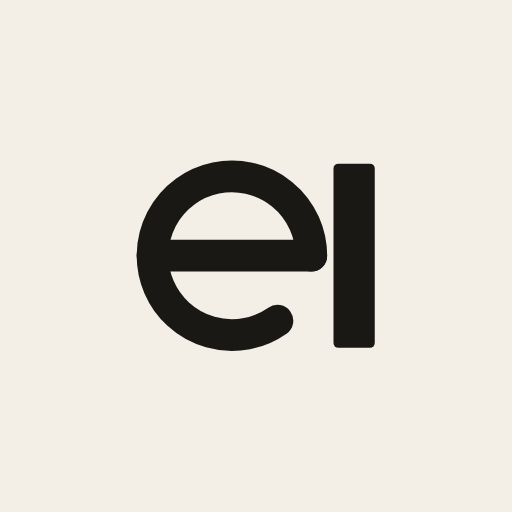
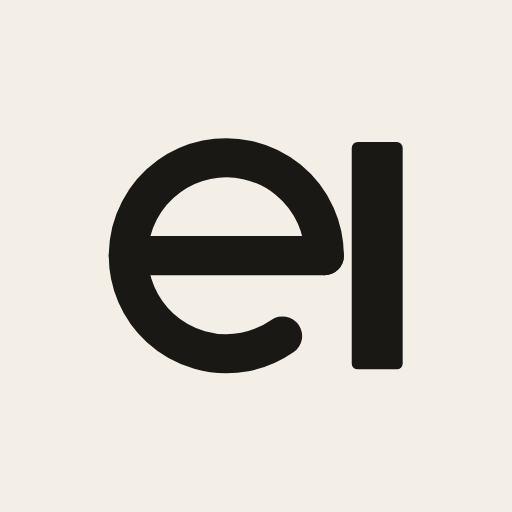
fix(brand): stop the stylesheet filling the bowl and guard the aperture

Changed region(s): [[0.1875, 0.25, 0.8125, 0.75]]

diff --git a/e2e/favicon.spec.ts b/e2e/favicon.spec.ts
@@ -118,6 +118,80 @@ test('draws a tab icon whose detail survives 16 pixels', async ({ page }) => {
   expect(covered.solid).toBeGreaterThan(20)
 })
 
+test('keeps the letter open at 16 pixels', async ({ page }) => {
+  await page.goto('/')
+
+  // The counter is the enclosed space inside the bowl, and it closing is what
+  // turns this mark into a blob with a bar beside it. It is the property the
+  // tail angle was tuned around and the one an ink-coverage reading cannot see:
+  // a filled-in letter has more ink, not less, so coverage rises as the mark
+  // fails. A frame change alone once closed it with every other check passing.
+  const openPixels = await page.evaluate(async () => {
+    const image = await new Promise<HTMLImageElement>((resolve, reject) => {
+      const candidate = new Image()
+      candidate.onload = () => resolve(candidate)
+      candidate.onerror = () => reject(new Error('failed to load /favicon.svg'))
+      candidate.src = '/favicon.svg'
+    })
+    const canvas = document.createElement('canvas')
+    canvas.width = 16
+    canvas.height = 16
+    const context = canvas.getContext('2d', { willReadFrequently: true })
+    if (!context) throw new Error('no 2d context')
+    context.drawImage(image, 0, 0, 16, 16)
+    const { data } = context.getImageData(0, 0, 16, 16)
+
+    const alphaAt = (x: number, y: number) => data[(y * 16 + x) * 4 + 3] ?? 0
+
+    // Every region of empty pixels, and whether it touches the frame's edge.
+    // A region that does not is a hole in the drawing. Named coordinates were
+    // the first attempt and the seed landed on the crossbar, which bisects the
+    // bowl, so the reading was of ink rather than of a counter.
+    const seen = new Set<number>()
+    let largestHole = 0
+
+    for (let startY = 0; startY < 16; startY += 1) {
+      for (let startX = 0; startX < 16; startX += 1) {
+        if (seen.has(startY * 16 + startX)) continue
+        if (alphaAt(startX, startY) > 60) continue
+
+        const queue = [{ x: startX, y: startY }]
+        let size = 0
+        let touchesEdge = false
+
+        while (queue.length) {
+          const point = queue.pop()
+          if (!point) break
+          const key = point.y * 16 + point.x
+          if (seen.has(key)) continue
+          if (point.x < 0 || point.x > 15 || point.y < 0 || point.y > 15) {
+            touchesEdge = true
+            continue
+          }
+          if (alphaAt(point.x, point.y) > 60) continue
+          seen.add(key)
+          size += 1
+          queue.push(
+            { x: point.x + 1, y: point.y },
+            { x: point.x - 1, y: point.y },
+            { x: point.x, y: point.y + 1 },
+            { x: point.x, y: point.y - 1 },
+          )
+        }
+
+        if (!touchesEdge && size > largestHole) largestHole = size
+      }
+    }
+
+    return largestHole
+  })
+
+  // The eye of the e, enclosed by the bowl and the crossbar. It is the first
+  // thing to disappear when the drawing is scaled down inside its frame, and
+  // a mark whose eye has filled reads as a dot rather than a letter.
+  expect(openPixels).toBeGreaterThan(1)
+})
+
 test('swaps its ink with the reader’s color scheme', async ({ page }) => {
   const inkUnder = async (scheme: 'light' | 'dark') => {
     await page.emulateMedia({ colorScheme: scheme })
